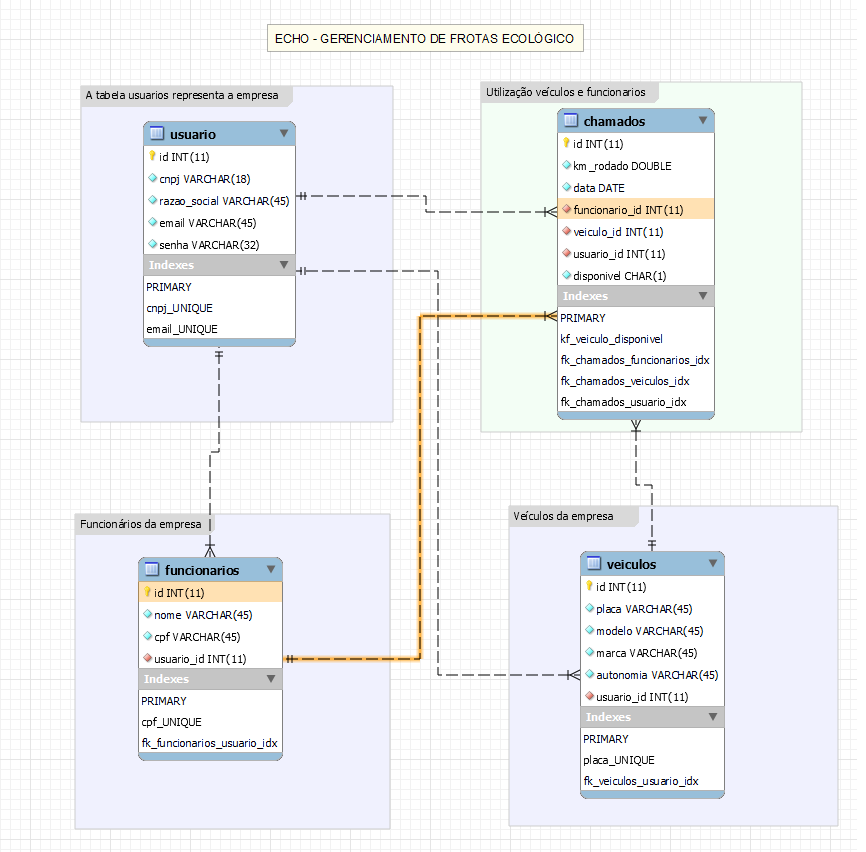
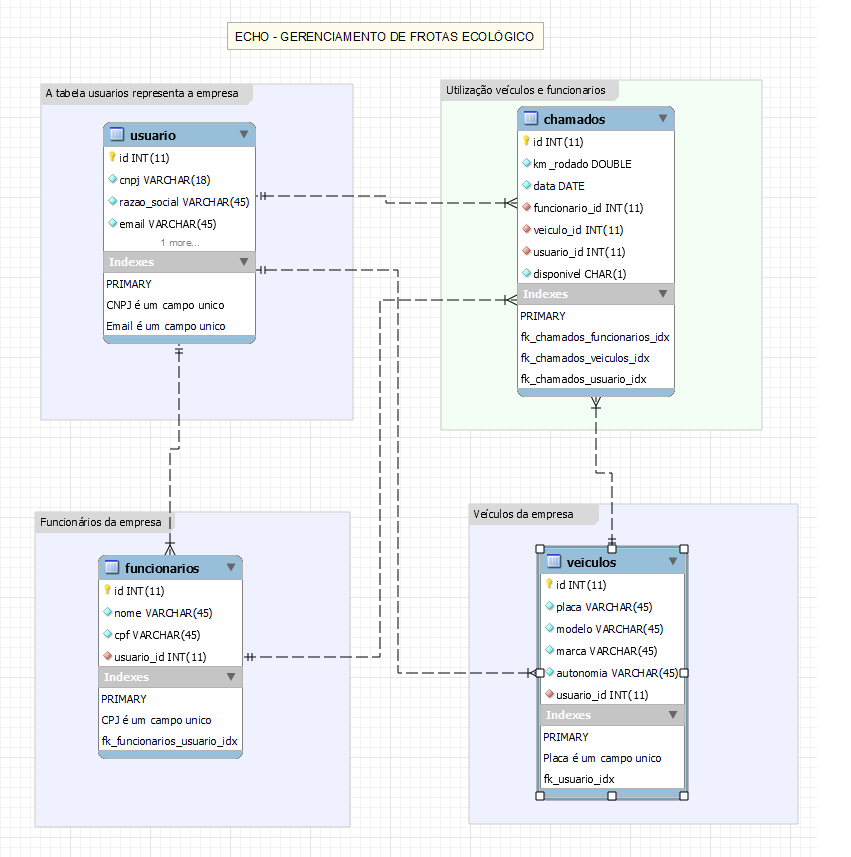
ajuste database e validação dos chamados

diff --git a/App/Models/Chamado.php b/App/Models/Chamado.php
@@ -41,6 +41,14 @@ class Chamado extends Connection
         }
     }
 
+    private function getVeiculoDisponivel($veiculo_id){
+        $conn = $this->connect();
+        $sql = "SELECT * FROM $this->nome_table WHERE (veiculo_id=$veiculo_id)";
+        $stmt = $conn->prepare($sql);
+        $stmt->execute();
+        return $stmt->fetch();
+    }
+
     public function novo()
     {
         if ($_POST) {
@@ -49,6 +57,16 @@ class Chamado extends Connection
                 $funcionario_id = $_POST["funcionario_id"];
                 $veiculo_id = $_POST["veiculo_id"];
                 $data = date("Y-m-d");
+
+                /*
+                $getVeiculoDisponivel = $this->getVeiculoDisponivel($veiculo_id);
+
+                if($getVeiculoDisponivel["data"]==$data && $getVeiculoDisponivel["disponivel"]=='N'){
+                    return[
+                        "msg_success"=>false,
+                        "msg_erros"=>"Esse veículo não está disponível"
+                    ];
+                }*/
 
                 $conn = $this->connect();
                 $sql = "INSERT INTO $this->nome_table (`km_rodado`,`funcionario_id`,veiculo_id,data,`usuario_id`) VALUES ('$km_rodado','$funcionario_id','$veiculo_id','$data',$this->login_id)";
@@ -94,6 +112,18 @@ class Chamado extends Connection
                 $funcionario_id = $_POST["funcionario_id"];
                 $veiculo_id = $_POST["veiculo_id"];
                 $disponivel = $_POST["disponivel"];
+                /*
+                    $getVeiculoDisponivel = $this->getVeiculoDisponivel($veiculo_id);
+                    $data = date("Y-m-d");
+
+
+                    if($getVeiculoDisponivel["data"]==$data && $getVeiculoDisponivel["disponivel"]=='N'){
+                        return[
+                            "msg_success"=>false,
+                            "msg_erros"=>"Esse veículo não está disponível"
+                        ];
+                    }
+                */
 
                 $conn = $this->connect();
                 $sql = "UPDATE $this->nome_table SET km_rodado = '$km_rodado',funcionario_id = '$funcionario_id',veiculo_id='$veiculo_id',usuario_id=$this->login_id,disponivel='$disponivel' WHERE (`id` = $id)";

diff --git a/App/Views/Pages/Auth/Element/msg.php b/App/Views/Pages/Auth/Element/msg.php
@@ -35,7 +35,7 @@ if (@$_SESSION["msgRemovidoSucesso"] == true) {
 if (@$_SESSION["msgAdicionadoErro"] == true) {
     ?>
     <span class="msg-error">
-        <p><?php print_r($_SESSION["msgAdicionadoErro"][2]);?></p>
+        <p><?php print_r($_SESSION["msgAdicionadoErro"]);?></p>
     </span>
     <?php
     $_SESSION["msgAdicionadoErro"] = false;
@@ -46,7 +46,7 @@ if (@$_SESSION["msgAdicionadoErro"] == true) {
 if (@$_SESSION["msgAlteradoErro"] == true) {
     ?>
     <span class="msg-error">
-            <p><?php print_r($_SESSION["msgAlteradoErro"][2]);?></p>
+            <p><?php print_r($_SESSION["msgAlteradoErro"]);?></p>
         </span>
     <?php
     $_SESSION["msgAlteradoErro"] = false;
